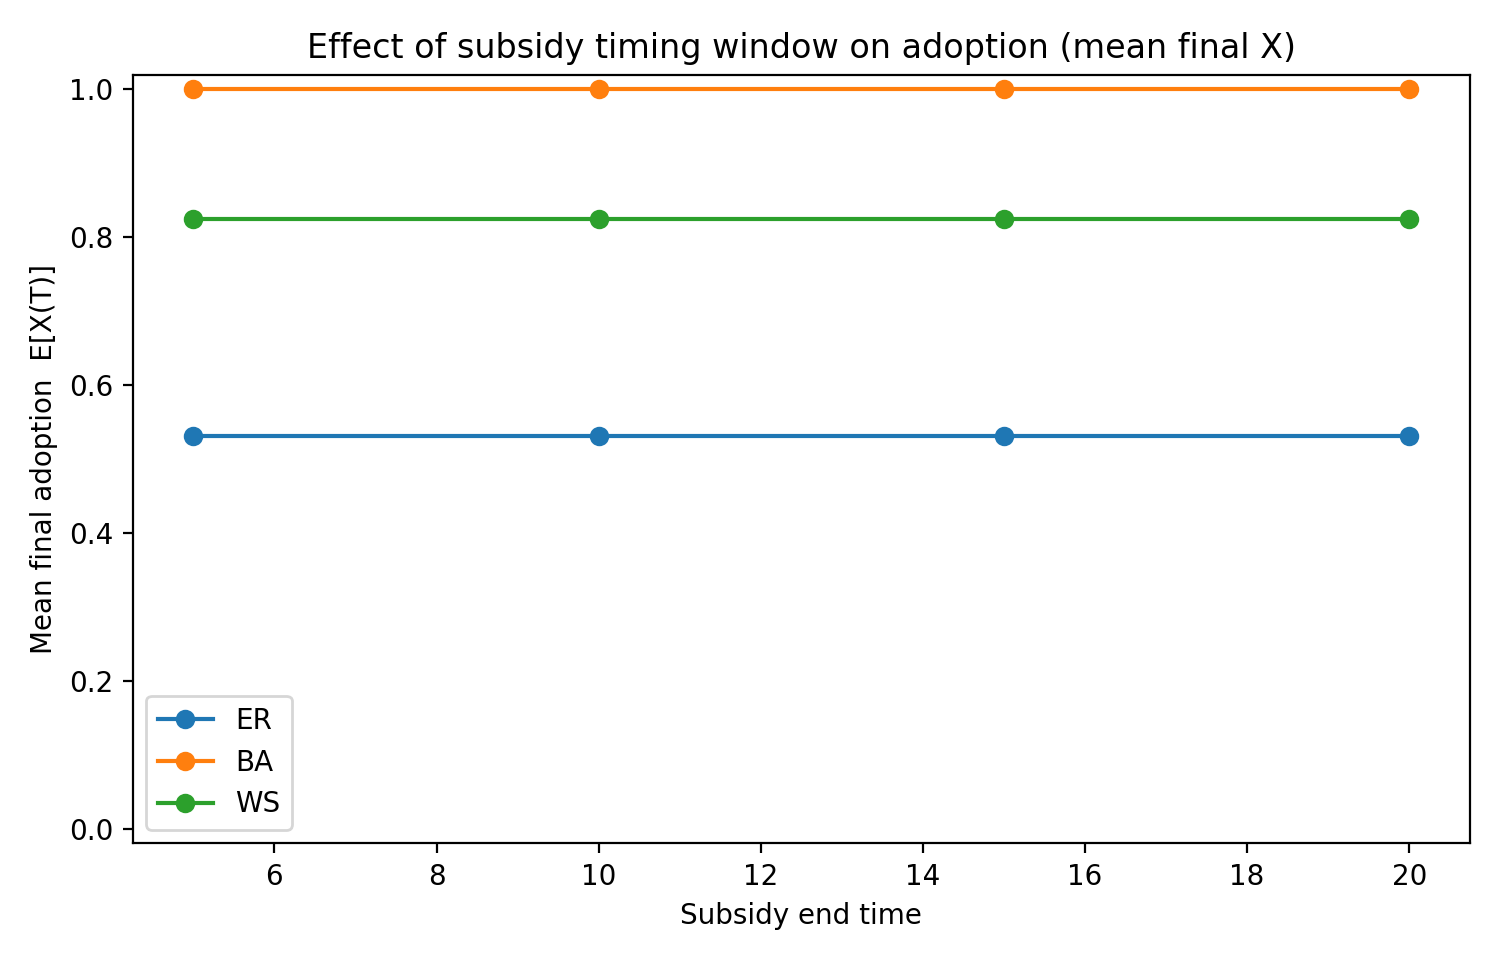
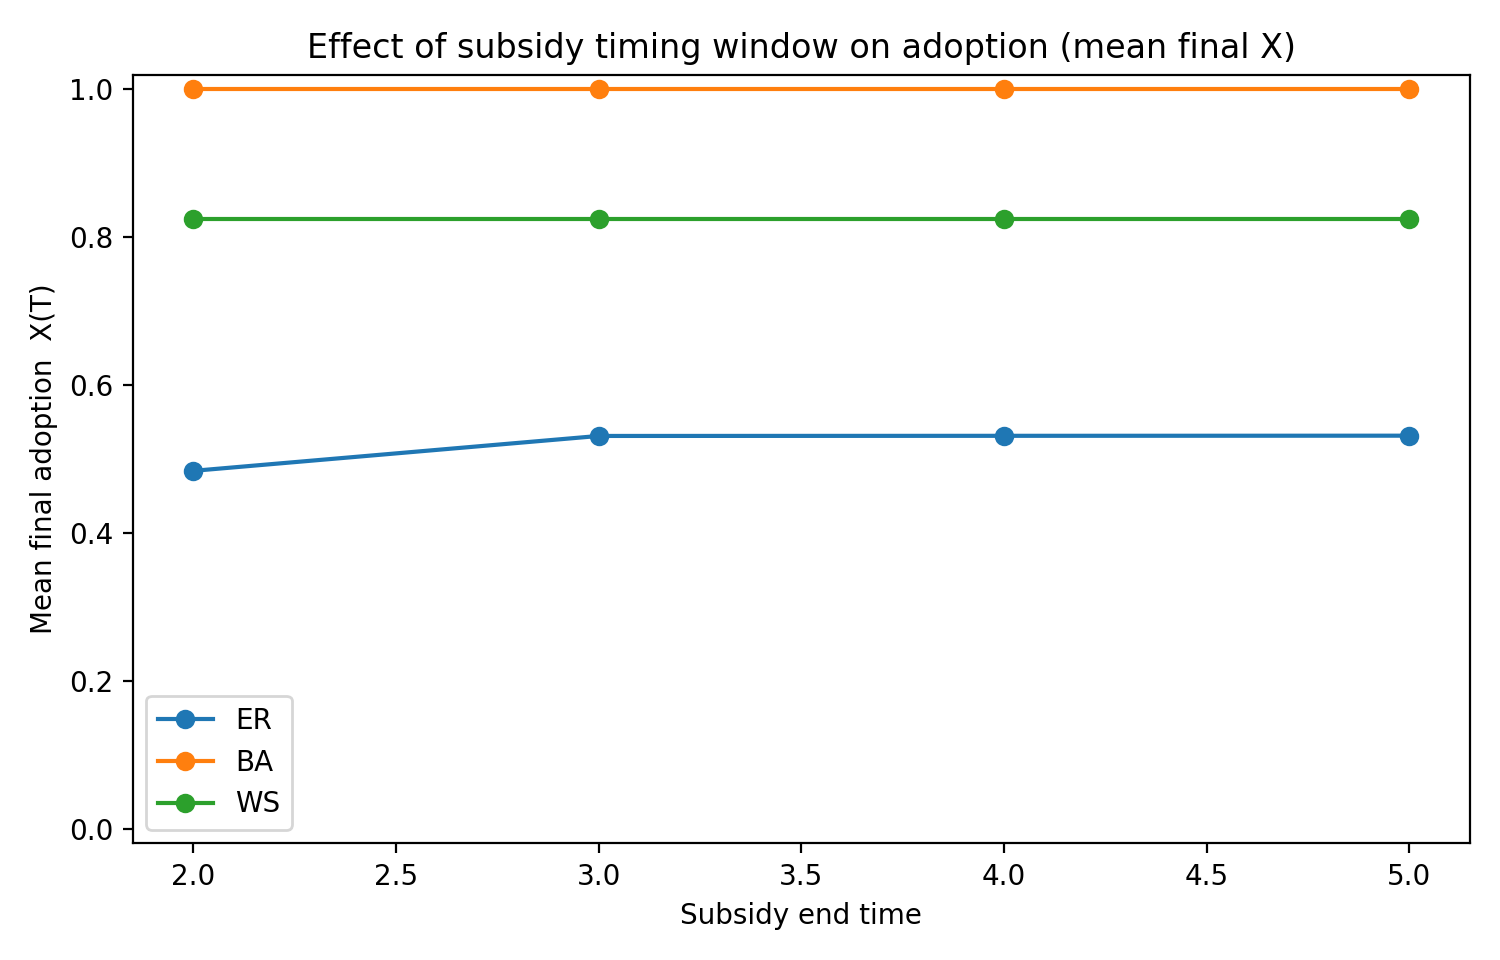
Final changes before refactoring

diff --git a/part3/p3_sweep_time.py b/part3/p3_sweep_time.py
@@ -87,7 +87,7 @@ def main():
     delta_a0 = 0.40
 
     # Timing sweep
-    subsidy_ends = [5, 10, 15, 20]
+    subsidy_ends = [2, 3, 4, 5]
 
     # Runtime settings
     T = 100
@@ -149,7 +149,7 @@ def main():
 
     plt.ylim(-0.02, 1.02)
     plt.xlabel("Subsidy end time")
-    plt.ylabel("Mean final adoption  E[X(T)]")
+    plt.ylabel("Mean final adoption  X(T)")
     plt.title("Effect of subsidy timing window on adoption (mean final X)")
     plt.legend()
     plt.tight_layout()
